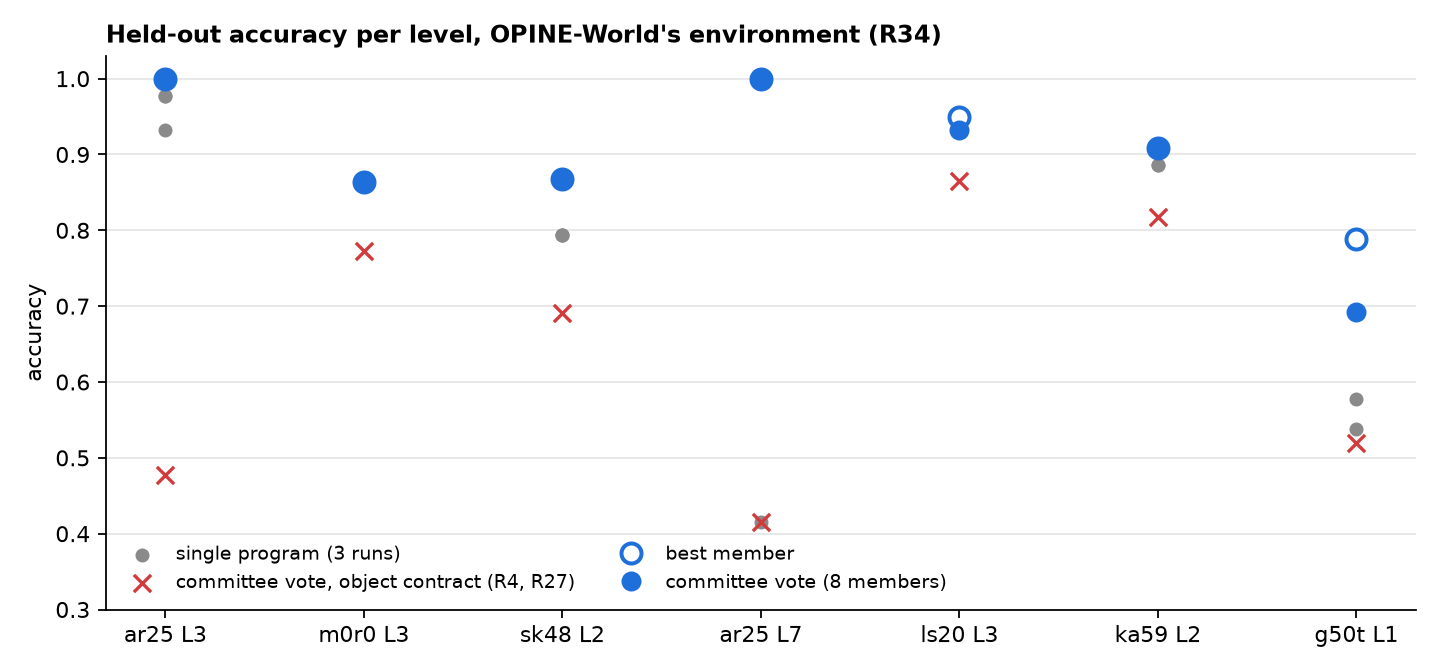
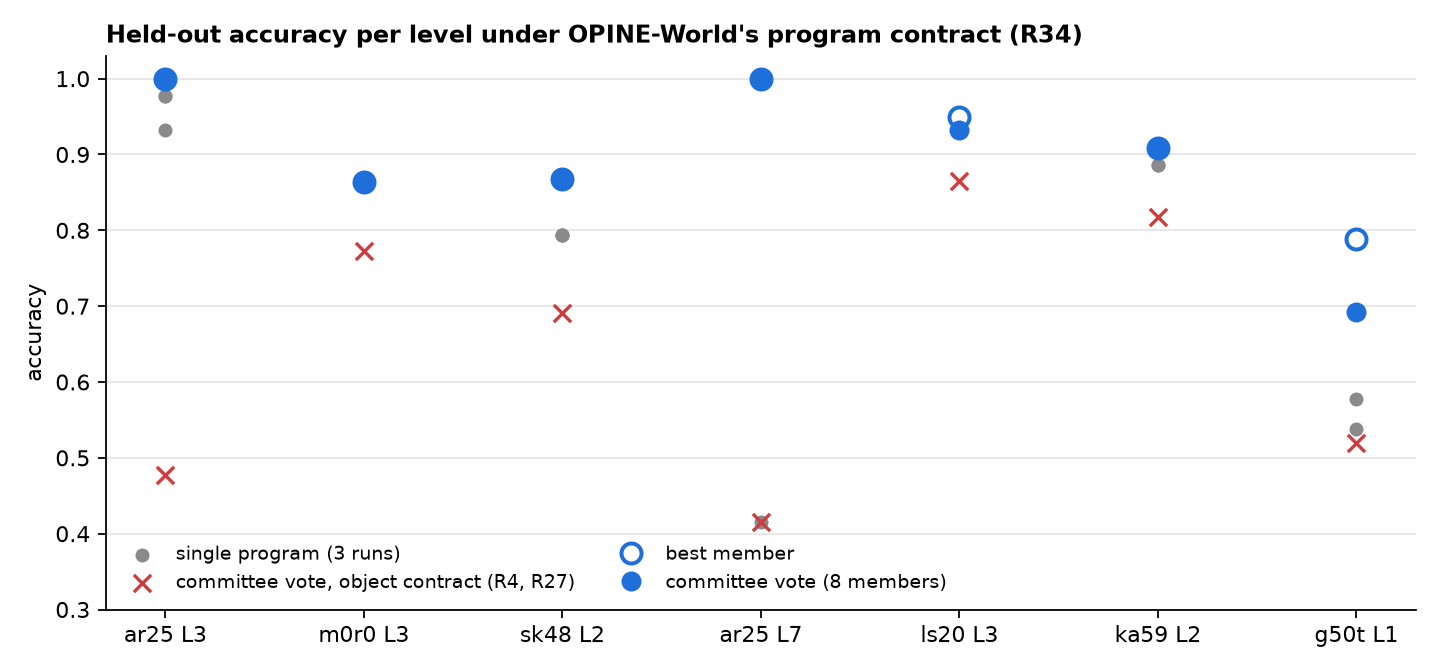
Figure title: OPINE-World's program contract
Claude-Session: https://claude.ai/code/session_01XDznykaVBCvwo7MGytP5Se

Changed region(s): [[0.3125, 0.0312, 0.75, 0.0625]]

diff --git a/src/committee/figures.py b/src/committee/figures.py
@@ -60,7 +60,7 @@ def fig_accuracy(summary: dict, out: Path) -> Path:
     ax.plot(x, [r["vote"] for r in rows], "o", color=BLUE, ms=8, zorder=5, label="committee vote (8 members)")
     ax.set_xticks(x, [r["level"] for r in rows])
     ax.set_ylim(0.3, 1.03)
-    _style(ax, "Held-out accuracy per level, OPINE-World's environment (R34)", "accuracy")
+    _style(ax, "Held-out accuracy per level under OPINE-World's program contract (R34)", "accuracy")
     ax.legend(loc="lower left", fontsize=8.5, frameon=False, ncol=2)
     fig.tight_layout()
     fig.savefig(out / "q1_accuracy.png", dpi=160)
